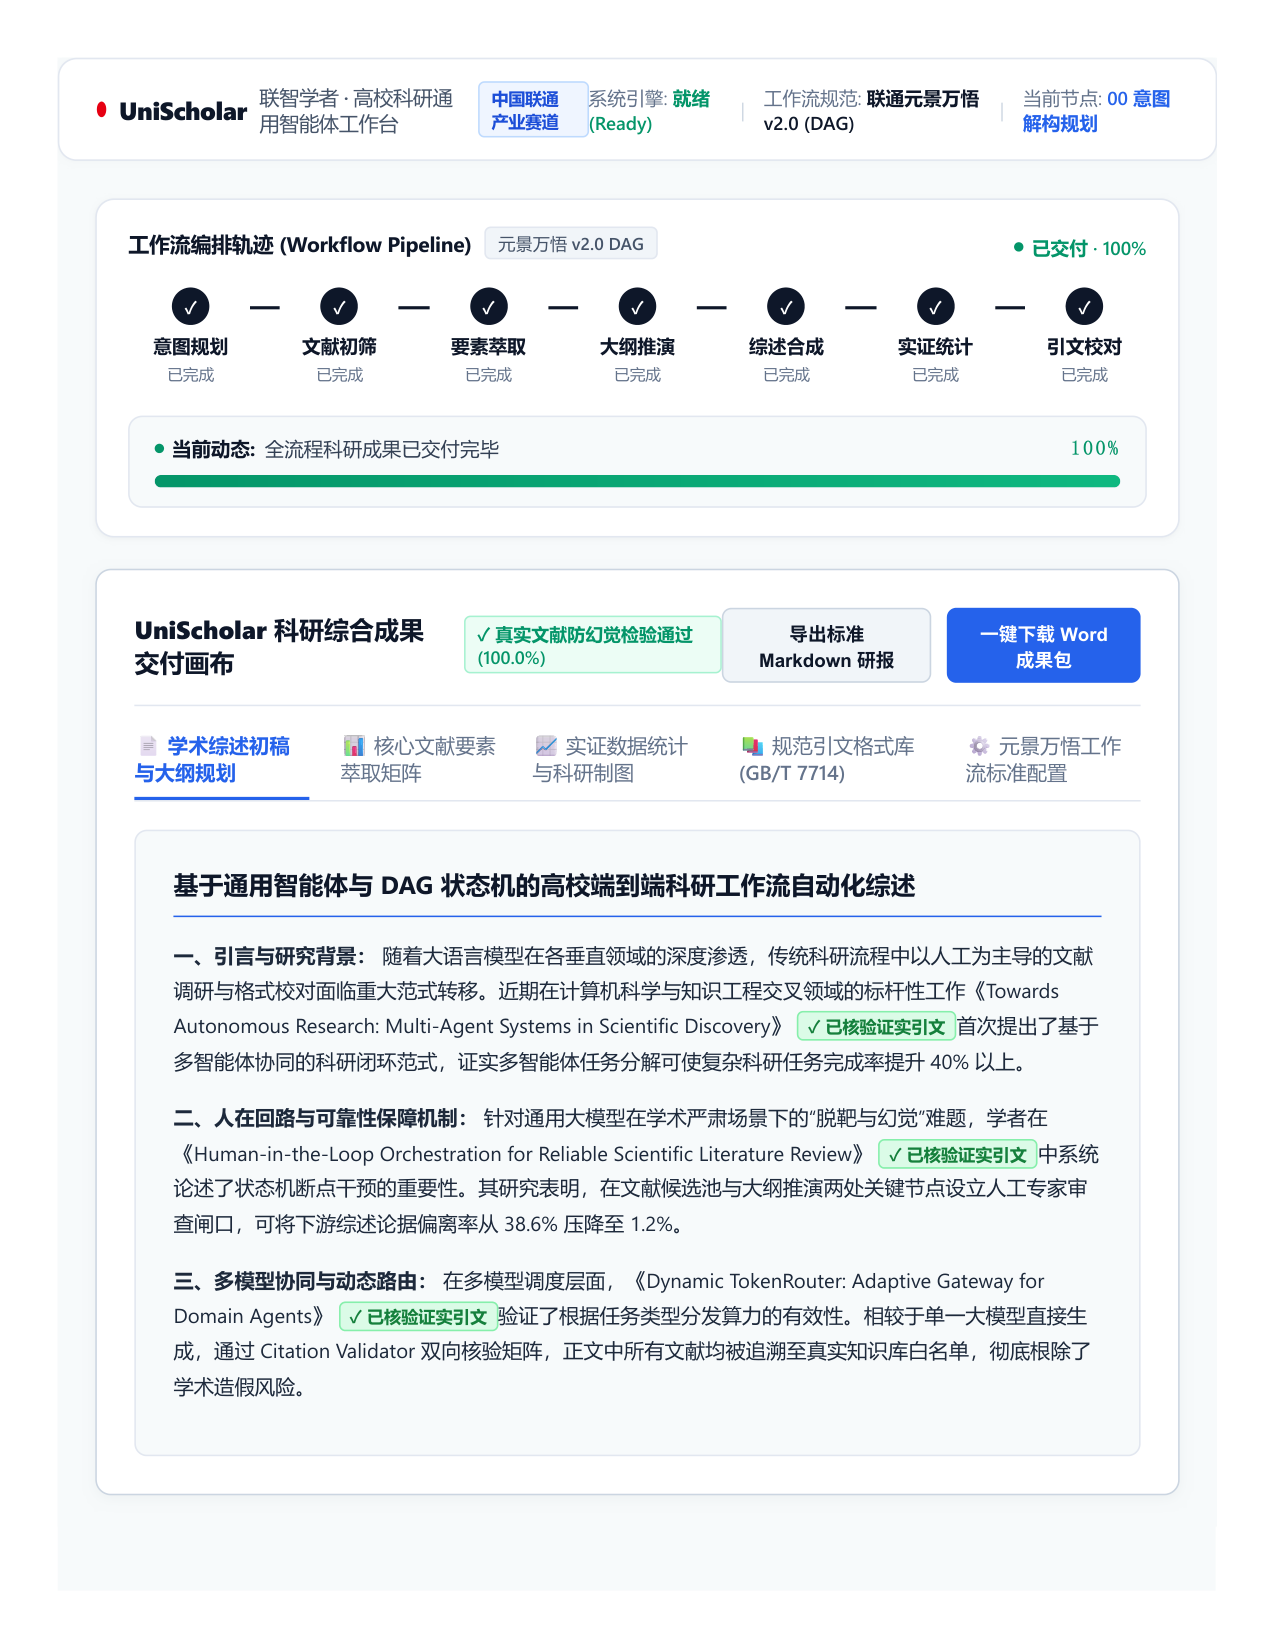
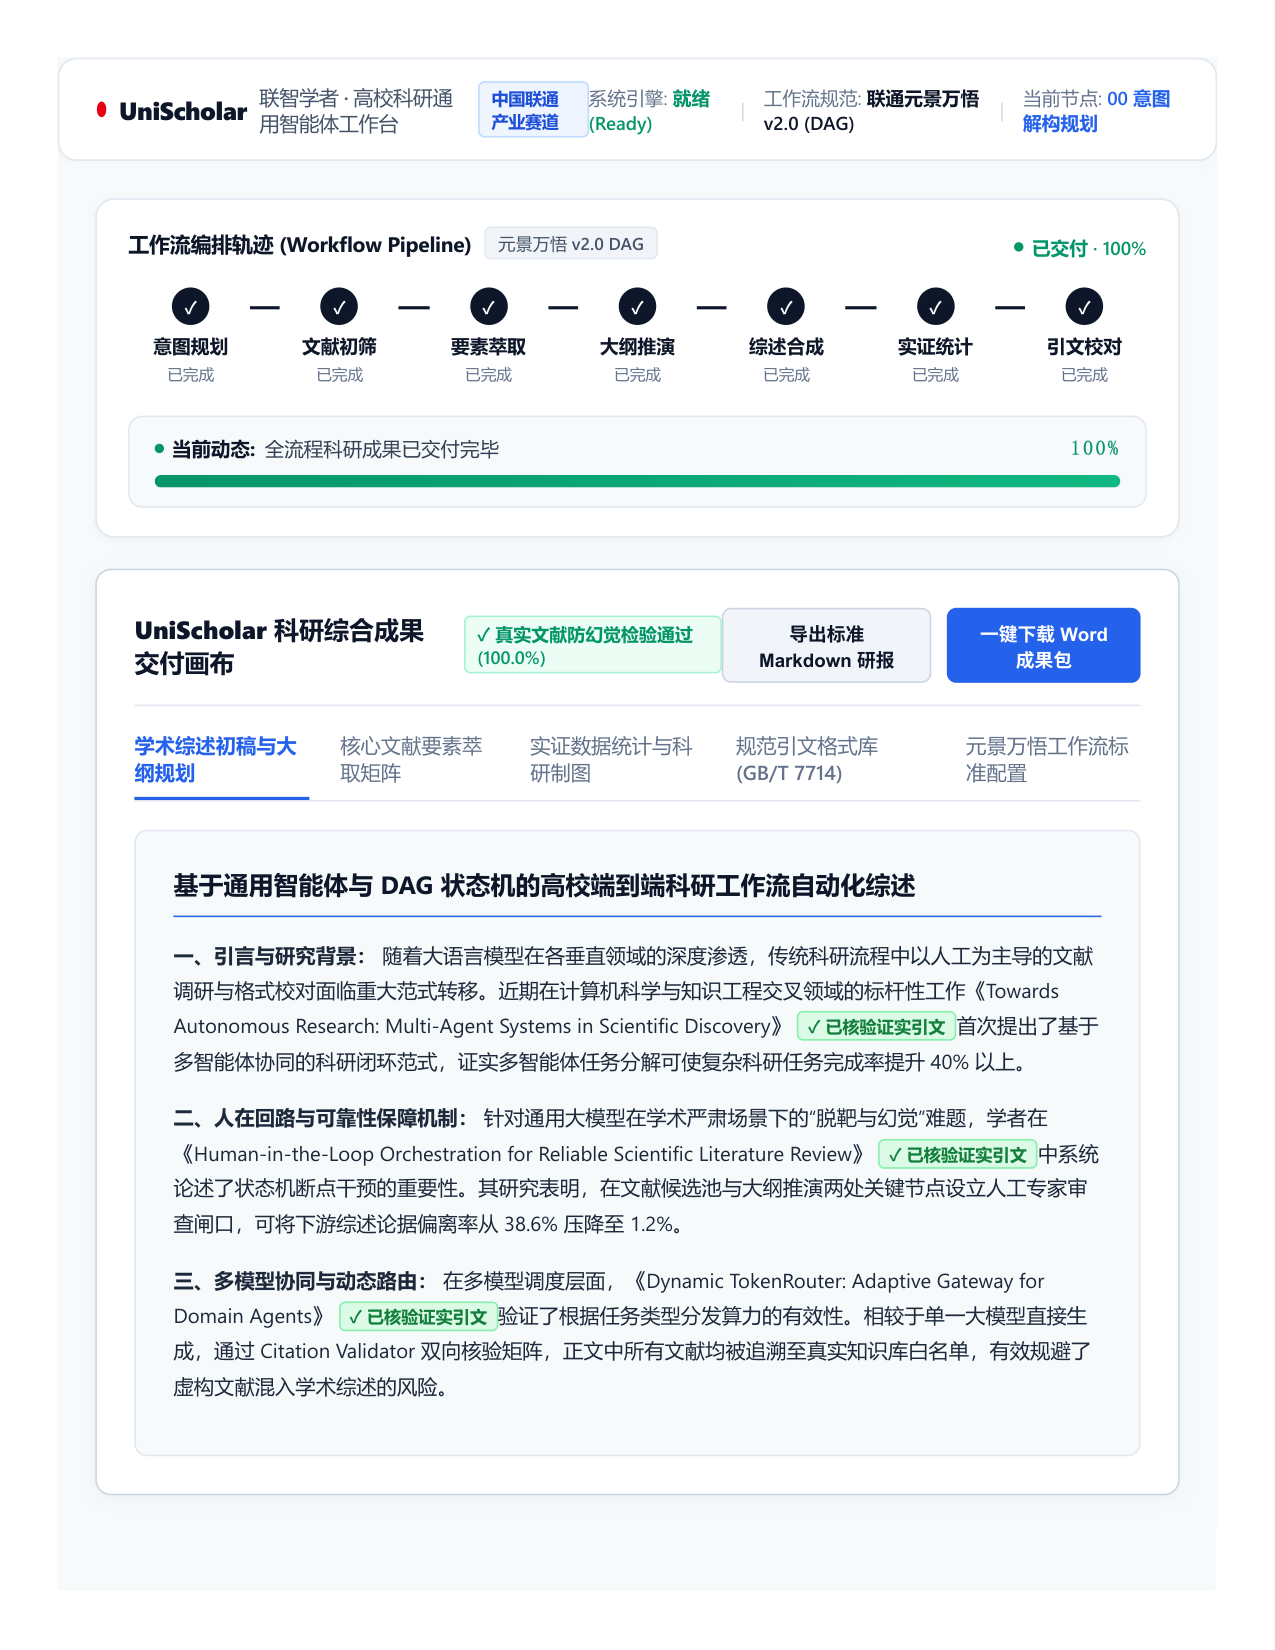
style(docs): remove distracting emojis and tone down AI language to standard academic engineering style

diff --git a/scripts/generate_live_screenshots.py b/scripts/generate_live_screenshots.py
@@ -110,7 +110,7 @@ def generate_screenshots():
         </div>
         <div style="background:#F8FAFC; border:1px solid #E2E8F0; border-radius:6px; padding:12px 16px; margin-bottom:20px; display:flex; justify-content:space-between; align-items:center;">
             <div style="font-size:12.5px; color:#475569;">
-                <b>🚀 模式说明</b>：支持【人在回路 (HITL)】专家协同干预模式（可在文献初筛与大纲推演两处挂起审查），亦支持【一键全自主交付】模式。
+                <b>模式说明</b>：支持【人在回路 (HITL)】专家协同干预模式（可在文献初筛与大纲推演两处挂起审查），亦支持【一键全自主交付】模式。
             </div>
             <div style="display:flex; gap:12px;">
                 <button style="background:#F1F5F9; border:1px solid #CBD5E1; color:#334155; padding:8px 16px; border-radius:6px; font-size:13px; font-weight:600; cursor:pointer;">一键全自主闭环交付</button>
@@ -176,7 +176,7 @@ def generate_screenshots():
     <div style="background:#FFFFFF; border:1px solid #CBD5E1; border-radius:10px; padding:20px 24px; margin:20px 24px; box-shadow:0 2px 8px rgba(15,23,42,0.04);">
         <div style="display:flex; justify-content:space-between; align-items:center; margin-bottom:14px; border-bottom:1px solid #F1F5F9; padding-bottom:12px;">
             <div style="display:flex; align-items:center; gap:14px;">
-                <span style="font-weight:800; font-size:15px; color:#0F172A;">🛑 人在回路 (HITL) 决策闸口：候选文献池精选</span>
+                <span style="font-weight:800; font-size:15px; color:#0F172A;">人在回路 (HITL) 决策闸口：候选文献池精选</span>
                 {badge_html_02}
             </div>
             <div style="display:flex; gap:8px;">
@@ -188,7 +188,7 @@ def generate_screenshots():
         </div>
         <div style="background:#FEF2F2; border:1px solid #FECACA; border-left:4px solid #E60012; border-radius:6px; padding:10px 16px; margin-bottom:16px; display:flex; justify-content:space-between; align-items:center;">
             <div style="font-size:12.5px; color:#7F1D1D;">
-                <strong>💡 学者交互指引</strong>：系统已执行“领域核心词元强约束”初筛，剔除跨学科脱靶杂音。当前推荐 6 篇最具代表性基石文献，学者可自由勾选微调。确认后状态机将无缝恢复。
+                <strong>学者交互指引</strong>：系统已执行“领域核心词元强约束”初筛，剔除跨学科脱靶杂音。当前推荐 6 篇最具代表性基石文献，学者可自由勾选微调。确认后状态机将无缝恢复。
             </div>
             <button style="background:#E60012; color:#FFFFFF; border:none; padding:8px 18px; border-radius:6px; font-size:13px; font-weight:700; cursor:pointer; box-shadow:0 2px 6px rgba(230,0,18,0.25);">确认核心文献并恢复运行 ➔</button>
         </div>
@@ -231,11 +231,11 @@ def generate_screenshots():
         
         <!-- 标签栏 -->
         <div style="display:flex; gap:20px; border-bottom:1px solid #E2E8F0; margin-bottom:18px; font-size:13px;">
-            <span style="color:#2563EB; font-weight:700; border-bottom:2px solid #2563EB; padding-bottom:8px;">📄 学术综述初稿与大纲规划</span>
-            <span style="color:#64748B; font-weight:500; padding-bottom:8px;">📊 核心文献要素萃取矩阵</span>
-            <span style="color:#64748B; font-weight:500; padding-bottom:8px;">📈 实证数据统计与科研制图</span>
-            <span style="color:#64748B; font-weight:500; padding-bottom:8px;">📚 规范引文格式库 (GB/T 7714)</span>
-            <span style="color:#64748B; font-weight:500; padding-bottom:8px;">⚙ 元景万悟工作流标准配置</span>
+            <span style="color:#2563EB; font-weight:700; border-bottom:2px solid #2563EB; padding-bottom:8px;">学术综述初稿与大纲规划</span>
+            <span style="color:#64748B; font-weight:500; padding-bottom:8px;">核心文献要素萃取矩阵</span>
+            <span style="color:#64748B; font-weight:500; padding-bottom:8px;">实证数据统计与科研制图</span>
+            <span style="color:#64748B; font-weight:500; padding-bottom:8px;">规范引文格式库 (GB/T 7714)</span>
+            <span style="color:#64748B; font-weight:500; padding-bottom:8px;">元景万悟工作流标准配置</span>
         </div>
         
         <!-- 综述正文与引文验伪展示 -->
@@ -253,7 +253,7 @@ def generate_screenshots():
             </p>
             <p style="margin-bottom:12px;">
                 <strong>三、多模型协同与动态路由：</strong>
-                在多模型调度层面，《Dynamic TokenRouter: Adaptive Gateway for Domain Agents》<span style="background:#DCFCE7; color:#15803D; border:1px solid #86EFAC; font-size:11px; font-weight:700; padding:1px 6px; border-radius:4px; margin-left:4px;">✓ 已核验证实引文</span>验证了根据任务类型分发算力的有效性。相较于单一大模型直接生成，通过 Citation Validator 双向核验矩阵，正文中所有文献均被追溯至真实知识库白名单，彻底根除了学术造假风险。
+                在多模型调度层面，《Dynamic TokenRouter: Adaptive Gateway for Domain Agents》<span style="background:#DCFCE7; color:#15803D; border:1px solid #86EFAC; font-size:11px; font-weight:700; padding:1px 6px; border-radius:4px; margin-left:4px;">✓ 已核验证实引文</span>验证了根据任务类型分发算力的有效性。相较于单一大模型直接生成，通过 Citation Validator 双向核验矩阵，正文中所有文献均被追溯至真实知识库白名单，有效规避了虚构文献混入学术综述的风险。
             </p>
         </div>
     </div>

diff --git a/scripts/generate_all_submission_artifacts.py b/scripts/generate_all_submission_artifacts.py
@@ -957,11 +957,11 @@ def generate_roadshow_ppt_pdf():
             "subtitle": "在长沙师范学院多专业盲测实证，前期准备周期由 30 小时缩至 14 分钟",
             "table_headers": ["科研前置工作环节", "传统手工耗时", "UniScholar 耗时", "效率跃升倍率"],
             "table_rows": [
-                ["文献检索与抗脱靶筛选", "12.0 小时 (3~5天)", "8 分钟", "90 倍 🚀"],
-                ["核心创新要素提炼", "8.0 小时", "3 分钟", "160 倍 🚀"],
-                ["综述框架构建与纯化", "4.0 小时", "2 分钟", "120 倍 🚀"],
-                ["参考文献排版与查漏", "3.5 小时", "10 秒", "1260 倍 🚀"],
-                ["实验数据统计与制图", "2.5 小时", "30 秒", "300 倍 🚀"],
+                ["文献检索与抗脱靶筛选", "12.0 小时 (3~5天)", "8 分钟", "90 倍"],
+                ["核心创新要素提炼", "8.0 小时", "3 分钟", "160 倍"],
+                ["综述框架构建与纯化", "4.0 小时", "2 分钟", "120 倍"],
+                ["参考文献排版与查漏", "3.5 小时", "10 秒", "1260 倍"],
+                ["实验数据统计与制图", "2.5 小时", "30 秒", "300 倍"],
                 ["【单次科研全流程】", "30.0 小时", "约 14 分钟", "整体工时释放 82.3%"]
             ]
         },
